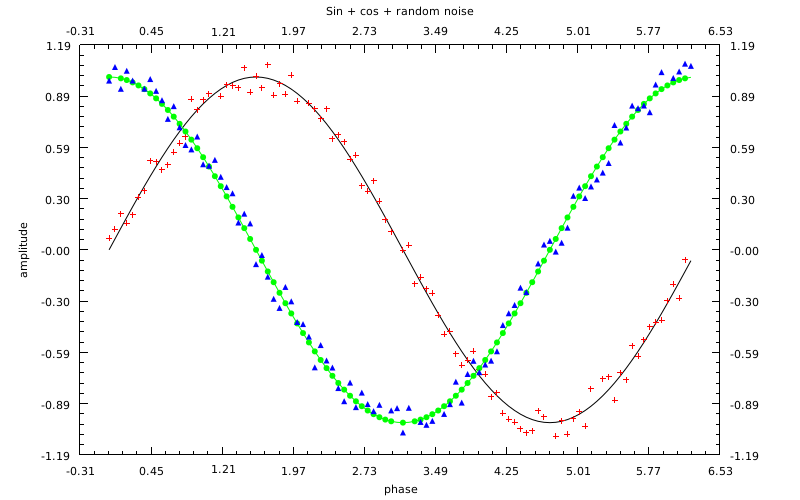
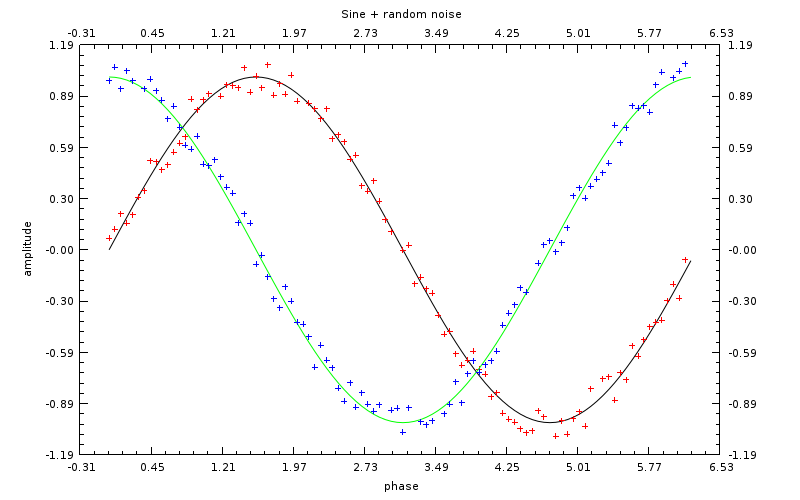
Revert "Add the possibility to use line and a points together"
This reverts commit 1c5712edcc8bbb931a220a9311d3d4074d3ad6de.

diff --git a/slope/xyitem.c b/slope/xyitem.c
@@ -69,13 +69,13 @@ slope_item_t* slope_xyitem_create()
 slope_item_t* slope_xyitem_create_simple (const double *vx, const double *vy,
                                           const int n,
                                           const char *name,
-                                          int line,
                                           const char *fmt)
 {
+
     slope_xyitem_t *self = malloc(sizeof(slope_xyitem_t));
     slope_item_t *parent = (slope_item_t*) self;
     __slope_xyitem_init(parent);
-    slope_xyitem_set(parent, vx, vy, n, name,line, fmt);
+    slope_xyitem_set(parent, vx, vy, n, name, fmt);
     return parent;
 }
 
@@ -84,7 +84,6 @@ void slope_xyitem_set (slope_item_t *item,
                        const double *vx, const double *vy,
                        const int n,
                        const char *name,
-                       int line,
                        const char *fmt)
 {
     slope_xyitem_t *self = (slope_xyitem_t*) item;
@@ -97,7 +96,6 @@ void slope_xyitem_set (slope_item_t *item,
     item->name = strdup(name);
     slope_color_set_name(&self->color, __slope_item_parse_color(fmt));
     self->scatter = __slope_item_parse_scatter(fmt);
-    self->line = line;
     __slope_xyitem_check_ranges(item);
     slope_item_notify_item_change(item);
 }
@@ -145,6 +143,9 @@ void __slope_xyitem_draw (slope_item_t *item, cairo_t *cr,
     cairo_set_line_width(cr,self->line_width);
 
     switch (self->scatter) {
+        case SLOPE_LINE:
+            __slope_xyitem_draw_line(item, cr, metrics);
+            break;
         case SLOPE_CIRCLES:
             __slope_xyitem_draw_circles(item, cr, metrics);
             break;
@@ -158,8 +159,6 @@ void __slope_xyitem_draw (slope_item_t *item, cairo_t *cr,
             __slope_xyitem_draw_plusses(item, cr, metrics);
             break;
     }
-    if (self->line)
-        __slope_xyitem_draw_line(item, cr, metrics);
 }
 
 

diff --git a/test.c b/test.c
@@ -25,12 +25,11 @@ int main(int argc, char *argv[])
         y4[k] = y3[k] + 0.2*((double)rand())/RAND_MAX - 0.1;
     }
 
-    /* this is all you need to know to crete a chart */
-    slope_figure_t *chart = slope_chart_create("Sin + cos + random noise", "phase", "amplitude");
-    slope_chart_add_plot(chart, x, y1, N, "sin",SLOPE_TRUE, "u-");
-    slope_chart_add_plot(chart, x, y2, N, "noise sin",SLOPE_FALSE, "u+");
-    slope_chart_add_plot(chart, x, y3, N, "cos",SLOPE_TRUE, "u.");
-    slope_chart_add_plot(chart, x, y4, N, "noise cos",SLOPE_FALSE, "u/");
+    slope_figure_t *chart = slope_chart_create("Sine + random noise", "phase", "amplitude");
+    slope_chart_add_plot(chart, x, y1, N, "sine", "u-");
+    slope_chart_add_plot(chart, x, y2, N, "noise sin", "u+");
+    slope_chart_add_plot(chart, x, y3, N, "cos", "u-");
+    slope_chart_add_plot(chart, x, y4, N, "noise cos", "u+");
 
     #if SLOPE_GTK
     /* put the figure in a gtk widget */

diff --git a/slope/slope.c b/slope/slope.c
@@ -46,10 +46,10 @@ void slope_chart_destroy (slope_figure_t *figure)
 
 void slope_chart_add_plot (slope_figure_t *chart,
                            const double *x, const double *y, int n,
-                           const char *title, int line,const char *fmt)
+                           const char *title, const char *fmt)
 {
     slope_item_t *plot =
-        slope_xyitem_create_simple(x, y, n, title, line, fmt);
+        slope_xyitem_create_simple(x, y, n, title, fmt);
     slope_iterator_t *iter =
         slope_list_first(slope_figure_get_metrics_list(chart));
     slope_metrics_t *metrics =

diff --git a/slope/xyitem.h b/slope/xyitem.h
@@ -34,7 +34,6 @@ slope_public slope_item_t*
 slope_xyitem_create_simple (const double *vx, const double *vy,
                             const int n,
                             const char *name,
-                            int line,
                             const char *fmt);
 
 /**
@@ -44,7 +43,6 @@ slope_xyitem_set (slope_item_t *item,
                   const double *vx, const double *vy,
                   const int n,
                   const char *name,
-                  int line,
                   const char *fmt);
 
 /**

diff --git a/slope/item.c b/slope/item.c
@@ -152,13 +152,12 @@ int __slope_item_parse_color (const char *fmt)
 int __slope_item_parse_scatter (const char *fmt)
 {
     while (*fmt) {
-        if (*fmt == '-') return SLOPE_SQUARES;
-        if (*fmt == '.') return SLOPE_CIRCLES;
+        if (*fmt == '-') return SLOPE_LINE;
+        if (*fmt == '*') return SLOPE_CIRCLES;
         if (*fmt == '+') return SLOPE_PLUSSES;
-        if (*fmt == '/') return SLOPE_TRIANGLES;
         ++fmt;
     }
-    return -1;
+    return SLOPE_LINE;
 }
 
 /* slope/item.c */

diff --git a/slope/slope.h b/slope/slope.h
@@ -44,7 +44,7 @@ slope_chart_destroy (slope_figure_t *figure);
 slope_public void
 slope_chart_add_plot (slope_figure_t *chart,
                       const double *x, const double *y, int n,
-                      const char *title, int line, const char *fmt);
+                      const char *title, const char *fmt);
 
 #endif /*__SLOPE_H */
 

diff --git a/slope/item.h b/slope/item.h
@@ -28,10 +28,11 @@ __SLOPE_BEGIN_DECLS
  */
 typedef enum
 {
-    SLOPE_CIRCLES    = 0,
-    SLOPE_TRIANGLES  = 1,
-    SLOPE_SQUARES    = 2,
-    SLOPE_PLUSSES    = 3
+    SLOPE_LINE       = 0,
+    SLOPE_CIRCLES    = 1,
+    SLOPE_TRIANGLES  = 2,
+    SLOPE_SQUARES    = 3,
+    SLOPE_PLUSSES    = 4
 }
 slope_scatter_t;
 

diff --git a/slope/xyitem_p.h b/slope/xyitem_p.h
@@ -37,7 +37,6 @@ struct _slope_xyitem
     double          ymin, ymax;
     slope_color_t   color;
     slope_scatter_t scatter;
-    int             line;
     int             fill_symbol;
     int             antialias;
     double          line_width;
